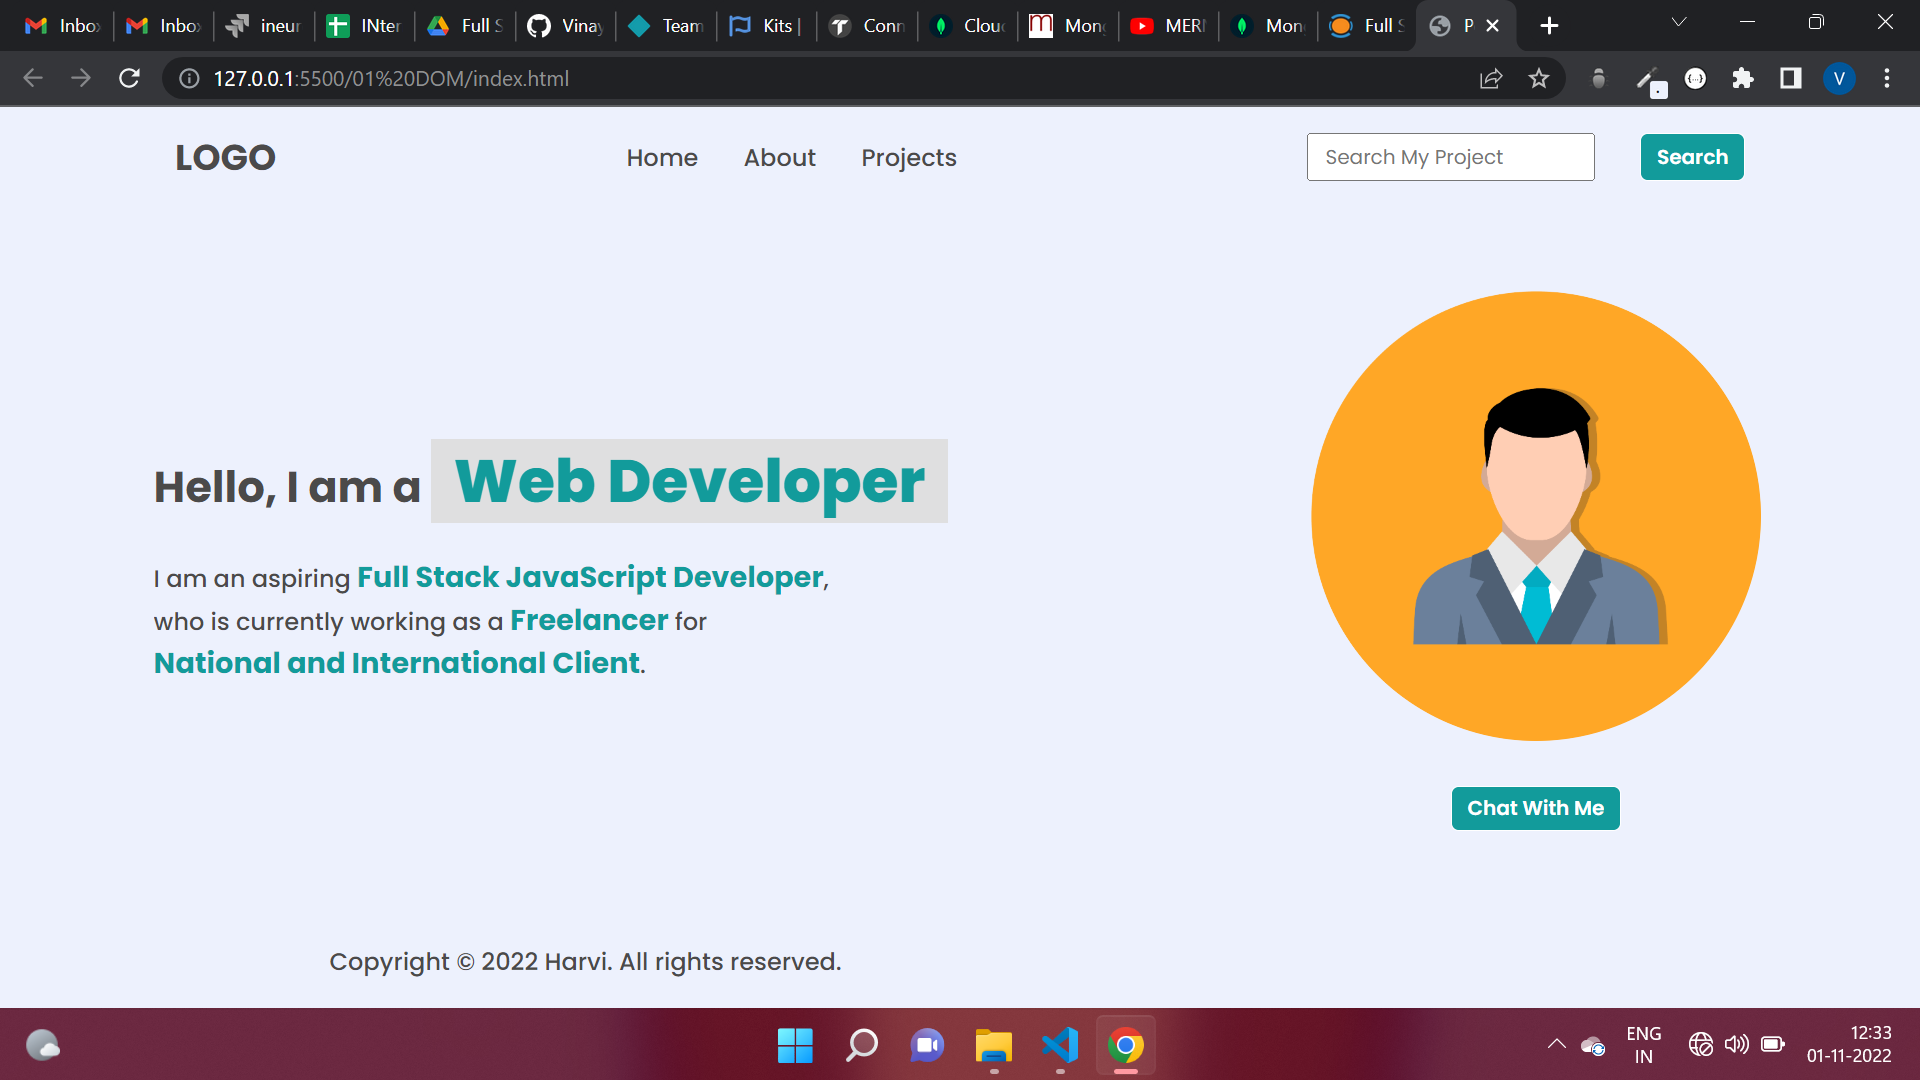
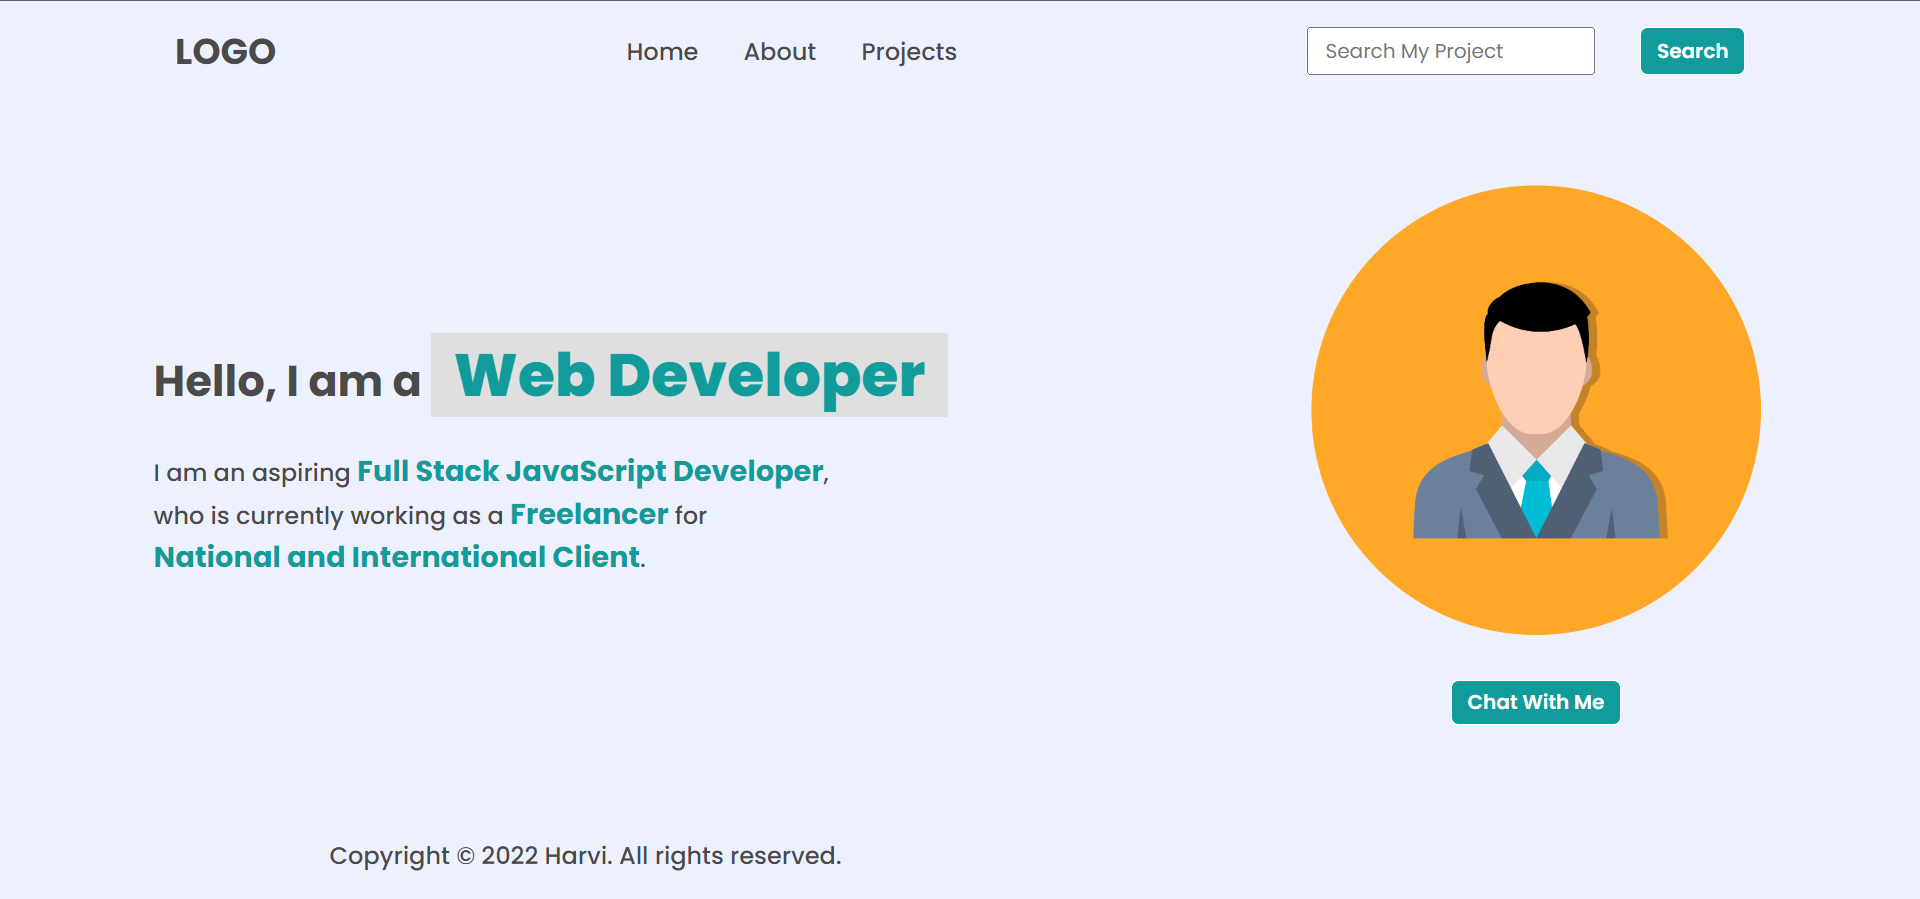
DOM Manipulation

diff --git a/Javascript/DOM/Assignment-01/ReadMe.md b/Javascript/DOM/Assignment-01/ReadMe.md
@@ -1,4 +1,4 @@
-# Task 1 : Update the list section for Header
+# Task 1 : Update the list section for Header and Footer
 
 ## Expected output
 
@@ -28,3 +28,10 @@ const logo = document.querySelector('footer>ul'); //selecting the list from foot
 footer.removeChild(logo); // removing the list from footer
 
 ```
+# Task 2 : Update the placeholder text in Search Bar
+
+## Expected output
+
+![Expected Output](./firstAssignmentImage/task2Output.png)
+
+## Related Code
